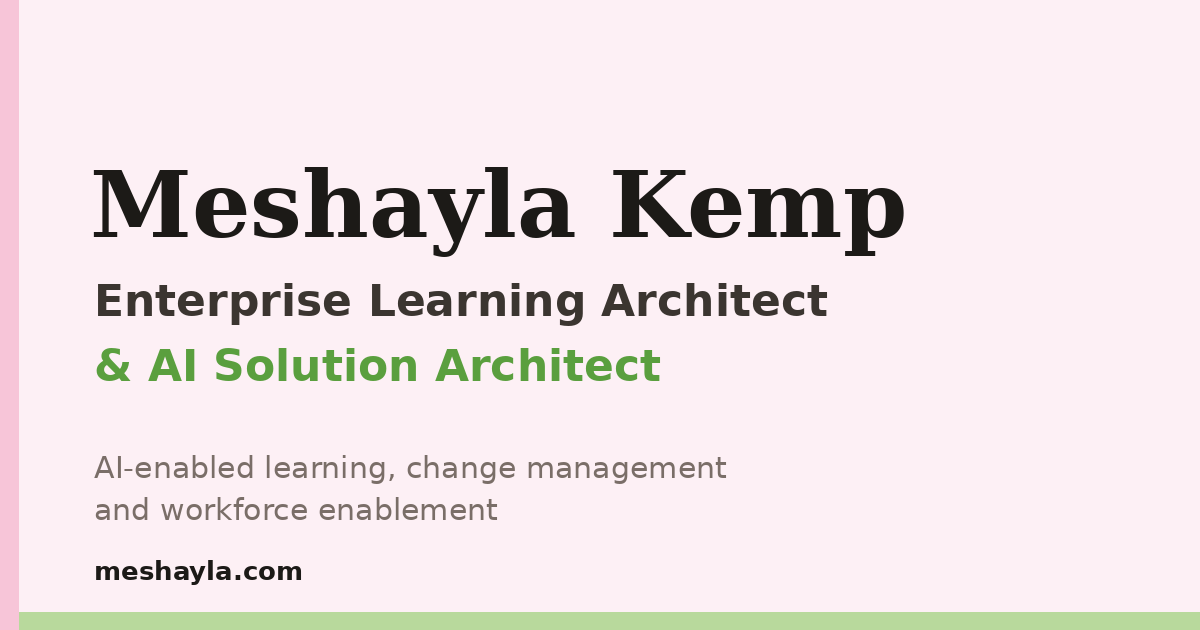
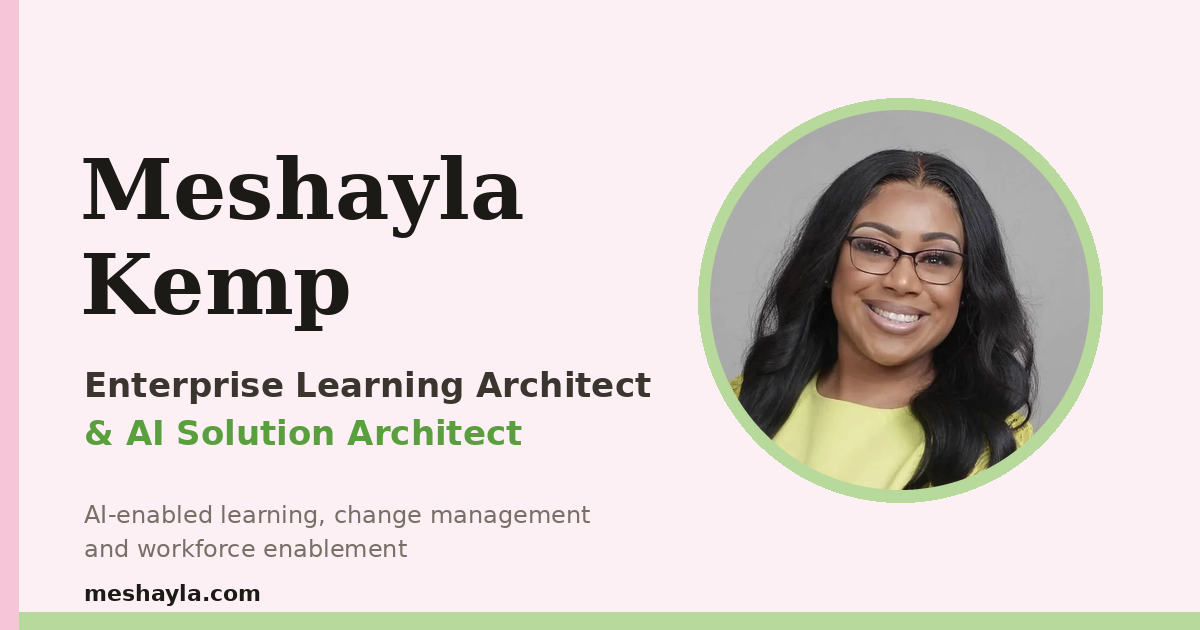
Add photo to case studies and share card; method on About page
- Square headshot crops (360 px and 96 px WebP)
- Byline with photo under each case-study title and a photo beside the
  "Need a result like this?" call to action
- Share card (og-card.png) now shows the photo
- Fix case-study spacing: base styles padded every <section>, creating
  large gaps; also fix dark-on-dark button and underlined sample links
- Carry The Lesson Plan Method tabs to the About page

Claude-Session: https://claude.ai/code/session_01N1RdFvC48pBb1oBZrdVaqt

Changed region(s): [[0.0617, 0.1508, 0.925, 0.9651]]

diff --git a/about.html b/about.html
@@ -402,6 +402,7 @@ footer{background:#0F0E0C;padding:2rem 3.5rem;display:flex;align-items:center;ju
 /* mobile: inline grid column counts must still collapse on phones */
 @media(max-width:720px){.contact-cards{grid-template-columns:1fr !important;}.skills-grid{grid-template-columns:1fr !important;}}
 </style>
+<link rel="stylesheet" href="/assets/css/enhance.css">
 </head>
 <body>
 <!-- NAV -->
@@ -669,13 +670,8 @@ footer{background:#0F0E0C;padding:2rem 3.5rem;display:flex;align-items:center;ju
   <div class="passion-inner">
     <blockquote>“The best training doesn’t feel like training. It feels like the answer to a problem you already had.”</blockquote>
     <cite>Meshayla Kemp — Enterprise Learning Architect</cite>
-    <div class="passion-steps">
-      <div class="p-step"><div class="p-step-n">01</div><div class="p-step-t">Diagnose First</div><div class="p-step-b">Performance gap &amp; needs analysis before a single slide is built.</div></div>
-      <div class="p-step"><div class="p-step-n">02</div><div class="p-step-t">Design for the Learner</div><div class="p-step-b">Audience analysis drives every design decision — not the content inventory.</div></div>
-      <div class="p-step"><div class="p-step-n">03</div><div class="p-step-t">Build for Transfer</div><div class="p-step-b">Scenario-based practice and reinforcement tools that bridge training to performance.</div></div>
-      <div class="p-step"><div class="p-step-n">04</div><div class="p-step-t">Leverage AI Strategically</div><div class="p-step-b">Generative AI as a collaborator — accelerating cycles while preserving instructional integrity.</div></div>
-      <div class="p-step"><div class="p-step-n">05</div><div class="p-step-t">Measure What Matters</div><div class="p-step-b">Kirkpatrick &amp; SAT-aligned evaluation built in from day one — not retrofitted.</div></div>
-    </div>
+    <div class="method" data-method><div class="method-intro"><div class="method-kicker">How I work</div><h2 class="method-title">The Lesson Plan Method</h2><p class="method-sub">Every engagement starts the way a good teacher starts a lesson: with the learner. Five steps, in order. Choose one to see what it looks like in practice.</p></div><div class="m-tabs" role="tablist" aria-label="The five steps of the Lesson Plan Method"><button type="button" class="m-tab" role="tab" id="mt1" aria-controls="mp1" aria-selected="true" tabindex="0"><span class="m-n">01</span><span class="m-t">Diagnose First</span></button><button type="button" class="m-tab" role="tab" id="mt2" aria-controls="mp2" aria-selected="false" tabindex="-1"><span class="m-n">02</span><span class="m-t">Design for the Learner</span></button><button type="button" class="m-tab" role="tab" id="mt3" aria-controls="mp3" aria-selected="false" tabindex="-1"><span class="m-n">03</span><span class="m-t">Build for Transfer</span></button><button type="button" class="m-tab" role="tab" id="mt4" aria-controls="mp4" aria-selected="false" tabindex="-1"><span class="m-n">04</span><span class="m-t">Leverage AI Strategically</span></button><button type="button" class="m-tab" role="tab" id="mt5" aria-controls="mp5" aria-selected="false" tabindex="-1"><span class="m-n">05</span><span class="m-t">Measure What Matters</span></button></div><div class="m-panels"><div class="m-panel" role="tabpanel" id="mp1" aria-labelledby="mt1"><div class="m-sound"><span>Sound familiar?</span>&ldquo;We need a course on this by Friday.&rdquo;</div><h3 class="m-ph">Diagnose First</h3><p class="m-what">A training request is not yet a problem to solve. Before anything is built, I find the real performance gap and ask whether training is even the right fix.</p><ul class="m-checks"><li>Performance gap named before anything is built</li><li>Stakeholder, gap and DIF analyses completed</li><li>A clear answer to: is this a training problem?</li></ul><a class="m-proof" href="/case-studies/leap-framework/">See it in action: Leap, Don&rsquo;t Escalate &rarr;</a></div><div class="m-panel" role="tabpanel" id="mp2" aria-labelledby="mt2"><div class="m-sound"><span>Sound familiar?</span>&ldquo;The content is all there, so why is nobody finishing it?&rdquo;</div><h3 class="m-ph">Design for the Learner</h3><p class="m-what">Audience analysis drives every design decision, not the content inventory. I design for the person who is nervous about the new platform, not for the slide count.</p><ul class="m-checks"><li>Audience analysis before learning objectives</li><li>Role-based paths so people choose what fits their work</li><li>Accessibility (WCAG/ADA) built in from day one</li></ul><a class="m-proof" href="/case-studies/sap-concur-lms/">See it in action: 500 Learners, 500 Roads &rarr;</a></div><div class="m-panel" role="tabpanel" id="mp3" aria-labelledby="mt3"><div class="m-sound"><span>Sound familiar?</span>&ldquo;They passed the quiz, but nothing changed on the job.&rdquo;</div><h3 class="m-ph">Build for Transfer</h3><p class="m-what">Learning only counts when it shows up in the work. I pair practice with the tools people use in the moment, so training carries past the course.</p><ul class="m-checks"><li>Scenario-based practice built around real situations</li><li>Job aids and coaching guides that travel with the learner</li><li>Post-launch reinforcement, such as office hours</li></ul><a class="m-proof" href="/case-studies/clm-pcm-rollout/">See it in action: Two Planes, One Runway &rarr;</a></div><div class="m-panel" role="tabpanel" id="mp4" aria-labelledby="mt4"><div class="m-sound"><span>Sound familiar?</span>&ldquo;Everyone is using AI, and nobody agrees on how.&rdquo;</div><h3 class="m-ph">Leverage AI Strategically</h3><p class="m-what">Generative AI is a collaborator, not a shortcut. I use it where it speeds the work and keep a human in charge of the result.</p><ul class="m-checks"><li>AI used where it saves time: crosswalks, drafting, voiceover</li><li>A human in the driver's seat for every deliverable</li><li>Instructional integrity kept intact</li></ul><a class="m-proof" href="/case-studies/economics-curriculum-crosswalk/">See it in action: Six States, One Map &rarr;</a></div><div class="m-panel" role="tabpanel" id="mp5" aria-labelledby="mt5"><div class="m-sound"><span>Sound familiar?</span>&ldquo;How do we know it actually worked?&rdquo;</div><h3 class="m-ph">Measure What Matters</h3><p class="m-what">Evaluation is designed in from the start, not retrofitted when someone asks for proof. Measures tie back to what the business or the state needs to see.</p><ul class="m-checks"><li>Kirkpatrick and SAT-aligned evaluation planned from day one</li><li>Assessments that give reviewers evidence they can verify</li><li>Findings fed back into job aids and revisions</li></ul><a class="m-proof" href="/case-studies/michigan-certification/">See it in action: Right the First Time &rarr;</a></div></div></div>
+  
   </div>
 </section>
 
@@ -693,4 +689,5 @@ footer{background:#0F0E0C;padding:2rem 3.5rem;display:flex;align-items:center;ju
 </footer>
 <script>document.querySelectorAll("a[href^='#']").forEach(a=>{const el=document.getElementById(a.getAttribute("href").slice(1));if(el){a.addEventListener("click",e=>{e.preventDefault();el.scrollIntoView({behavior:"smooth"});});}});</script>
 
+<script src="/assets/js/enhance.js" defer></script>
 </body></html>

diff --git a/case-studies/clm-pcm-rollout/index.html b/case-studies/clm-pcm-rollout/index.html
@@ -50,6 +50,7 @@
 <p class="cs-kicker">Two Planes, One Runway<small>Training built while the platforms took off</small></p>
 <h1 class="cs-title">Contract &amp; Procurement Lifecycle Management: Simultaneous 3-Phase Enterprise Platform Rollout</h1>
 <p class="cs-outcome">Two enterprise platform rollouts run at the same time, on a training process built from scratch.</p>
+<div class="cs-by"><img src="/assets/img/meshayla-headshot-sm.webp" alt="Meshayla Kemp" width="48" height="48" decoding="async"><span>Case study by <strong>Meshayla Kemp</strong>, Enterprise Learning Architect</span></div>
 <div class="ptags"><span class="chip-pill g">GEP Smart CLM</span><span class="chip-pill g">Power Apps</span><span class="chip-pill g">Power BI</span><span class="chip-pill g">ADKAR</span></div>
 </div></header>
 <section class="cs-wrap cs-stats" aria-label="Key results"><div class="cs-stat"><b>2</b><span>platform rollouts run simultaneously (CLM and PCM)</span></div><div class="cs-stat"><b>8</b><span>audience groups supported</span></div><div class="cs-stat"><b>60 min</b><span>VILT in two modules for the CLM core rollout</span></div></section>
@@ -59,7 +60,7 @@
 <section class="cs-block cs-wide"><div class="cs-compare"><div class="old"><h3>Old state</h3><ul><li>Contracts emailed back and forth, with no version control or audit trail</li><li>Redlining in external Word files caused version corruption and errors</li><li>Files scattered across eDocs, Documentum and email</li><li>Ad hoc intake by email or phone across business units</li><li>No reporting, metrics or training infrastructure</li></ul></div><div class="new"><h3>New state</h3><ul><li>All edits and redlines inside GEP Smart CLM, with every version tracked</li><li>Centralized document repository</li><li>Power Apps intake form standardized requests across business units</li><li>Power BI dashboards for real-time metrics and compliance visibility</li><li>ADDIE and SAT training infrastructure ready for future rollouts</li></ul></div></div></section>
 <section class="cs-block"><h2>Tools and methods</h2><div class="ptags"><span class="chip-pill">GEP Smart CLM + PCM</span><span class="chip-pill">ClickLearn Job Aids</span><span class="chip-pill">Power Apps</span><span class="chip-pill">Power BI</span><span class="chip-pill">Office Hours Facilitation</span><span class="chip-pill">Daily Scrum / Agile</span><span class="chip-pill">Communication Strategy</span><span class="chip-pill">ADDIE + SAT Framework</span><span class="chip-pill">ADKAR Change Model</span><span class="chip-pill">Expectation Management</span><span class="chip-pill">UAT Collaboration</span><span class="chip-pill">Legal Workflow Training</span></div></section>
 <section class="cs-block"><h2>Work samples</h2><div class="cs-btns"><a class="doc-btn pdf" href="/assets/docs/Training_Curriculum_Plan_Enhanced.pdf" target="_blank" rel="noopener">&#128196; Curriculum Plan</a><a class="doc-btn pdf" href="/assets/docs/SAT_Evaluation_Measurement_Plan_Enhanced.pdf" target="_blank" rel="noopener">&#128196; Evaluation Plan</a><a class="doc-btn pdf" href="/assets/docs/OCM_Instructional_Design_Plan_Enhanced.pdf" target="_blank" rel="noopener">&#128196; ID Plan</a><a class="doc-btn pdf" href="/assets/docs/Training_Needs_Analysis_Enhanced.pdf" target="_blank" rel="noopener">&#128196; Needs Analysis</a><a class="doc-btn pdf" href="/assets/docs/Change_Impact_Analysis_Enhanced.pdf" target="_blank" rel="noopener">&#128196; Change Impact</a></div></section>
-<section class="cs-cta"><h2>Need a result like this?</h2><p>I take on instructional design, organizational change management and AI-enabled learning engagements, and leadership roles.</p><div class="cs-btns"><a class="plink" href="/contact">Start a conversation</a><a class="doc-btn" href="mailto:meshayla@kempadvisory.com">meshayla@kempadvisory.com</a></div></section>
+<section class="cs-cta"><img class="cs-cta-photo" src="/assets/img/meshayla-headshot.webp" alt="Meshayla Kemp" width="132" height="132" loading="lazy" decoding="async"><div><h2>Need a result like this?</h2><p>I take on instructional design, organizational change management and AI-enabled learning engagements, and leadership roles.</p><div class="cs-btns"><a class="plink" href="/contact">Start a conversation</a><a class="doc-btn" href="mailto:meshayla@kempadvisory.com">meshayla@kempadvisory.com</a></div></div></section>
 <div class="cs-next" role="navigation" aria-label="More case studies"><a href="/projects">&larr; All projects</a><a href="/case-studies/michigan-certification/">Next: Statewide Certification Program: Michigan &rarr;</a></div>
 </div>
 </main>

diff --git a/case-studies/leap-framework/index.html b/case-studies/leap-framework/index.html
@@ -50,6 +50,7 @@
 <p class="cs-kicker">Leap, Don&rsquo;t Escalate<small>From &ldquo;I&rsquo;m furious&rdquo; to &ldquo;thank you&rdquo; in four steps</small></p>
 <h1 class="cs-title">The L.E.A.P. Framework: From Analysis to Impact</h1>
 <p class="cs-outcome">An original four-step de-escalation framework, built from analysis and turned into a job aid and a full Storyline course.</p>
+<div class="cs-by"><img src="/assets/img/meshayla-headshot-sm.webp" alt="Meshayla Kemp" width="48" height="48" decoding="async"><span>Case study by <strong>Meshayla Kemp</strong>, Enterprise Learning Architect</span></div>
 <div class="ptags"><span class="chip-pill g">Original framework</span><span class="chip-pill g">Articulate Storyline 360</span><span class="chip-pill g">AI-enhanced redesign</span></div>
 </div></header>
 <section class="cs-wrap cs-stats" aria-label="Key results"><div class="cs-stat"><b>4</b><span>steps in the original L.E.A.P. framework</span></div><div class="cs-stat"><b>3</b><span>phases: analyze, design and develop, implement and evaluate</span></div><div class="cs-stat"><b>1</b><span>blended ecosystem: course, job aid, coaching guide</span></div></section>
@@ -59,7 +60,7 @@
 <section class="cs-block cs-wide"><div class="cs-leap"><div><b>L</b><span>Listen</span><em>&ldquo;Can you help me understand what happened?&rdquo;</em></div><div><b>E</b><span>Empathize</span><em>&ldquo;I understand why that would be frustrating.&rdquo;</em></div><div><b>A</b><span>Apologize</span><em>&ldquo;I&rsquo;m sorry you had to go through this.&rdquo;</em></div><div><b>P</b><span>Perform</span><em>&ldquo;Here&rsquo;s what I&rsquo;m going to do to fix this.&rdquo;</em></div></div><p class="cs-note"><strong>Business impact:</strong> higher customer satisfaction, lower escalation risk, more employee confidence and more consistent service.</p></section>
 <section class="cs-block"><h2>Tools and methods</h2><div class="ptags"><span class="chip-pill">Stakeholder Analysis</span><span class="chip-pill">Gap &amp; DIF Analysis</span><span class="chip-pill">Training Needs Analysis</span><span class="chip-pill">Original Framework Design</span><span class="chip-pill">Job Aid &amp; Process Tool</span><span class="chip-pill">Articulate Storyline 360</span><span class="chip-pill">AI-Enhanced Redesign</span><span class="chip-pill">Canva &amp; Venngage</span><span class="chip-pill">Scenario-Based Learning</span><span class="chip-pill">Blended Learning Ecosystem</span></div></section>
 <section class="cs-block"><h2>Work samples</h2><div class="cs-btns"><a class="doc-btn pdf" href="/assets/docs/LEAP_Framework_Portfolio_Case_Study.pdf" target="_blank" rel="noopener">&#128196; Job Aid Portfolio Case Study (PDF)</a><a class="plink" href="https://meshaylakempcourses.s3.amazonaws.com/Handling+an+Irate+Customer-+M.Kemp+-+Storyline+output/story.html" target="_blank" rel="noopener">&#127909; Open the L.E.A.P. Storyline course</a></div></section>
-<section class="cs-cta"><h2>Need a result like this?</h2><p>I take on instructional design, organizational change management and AI-enabled learning engagements, and leadership roles.</p><div class="cs-btns"><a class="plink" href="/contact">Start a conversation</a><a class="doc-btn" href="mailto:meshayla@kempadvisory.com">meshayla@kempadvisory.com</a></div></section>
+<section class="cs-cta"><img class="cs-cta-photo" src="/assets/img/meshayla-headshot.webp" alt="Meshayla Kemp" width="132" height="132" loading="lazy" decoding="async"><div><h2>Need a result like this?</h2><p>I take on instructional design, organizational change management and AI-enabled learning engagements, and leadership roles.</p><div class="cs-btns"><a class="plink" href="/contact">Start a conversation</a><a class="doc-btn" href="mailto:meshayla@kempadvisory.com">meshayla@kempadvisory.com</a></div></div></section>
 <div class="cs-next" role="navigation" aria-label="More case studies"><a href="/projects">&larr; All projects</a><a href="/case-studies/clm-pcm-rollout/">Next: Contract &amp; Procurement Lifecycle Management: Simultaneous 3-Phase Enterprise Platform Rollout &rarr;</a></div>
 </div>
 </main>

diff --git a/case-studies/economics-curriculum-crosswalk/index.html b/case-studies/economics-curriculum-crosswalk/index.html
@@ -50,6 +50,7 @@
 <p class="cs-kicker">Six States, One Map<small>Every standard found, every gap closed</small></p>
 <h1 class="cs-title">Economics &amp; Financial Literacy: Statewide Curriculum Redesign</h1>
 <p class="cs-outcome">A six-state standards crosswalk and curriculum redesign that secured state approval at 100% compliance.</p>
+<div class="cs-by"><img src="/assets/img/meshayla-headshot-sm.webp" alt="Meshayla Kemp" width="48" height="48" decoding="async"><span>Case study by <strong>Meshayla Kemp</strong>, Enterprise Learning Architect</span></div>
 <div class="ptags"><span class="chip-pill g">AI-assisted crosswalk</span><span class="chip-pill g">Standards alignment</span><span class="chip-pill g">DOK framework</span></div>
 </div></header>
 <section class="cs-wrap cs-stats" aria-label="Key results"><div class="cs-stat"><b>6</b><span>states crosswalked: NV, CA, FL, PA, TX, WA</span></div><div class="cs-stat"><b>100%</b><span>compliance maintained, with state approval secured</span></div><div class="cs-stat"><b>9-12</b><span>grades covered by the curriculum map</span></div></section>
@@ -59,7 +60,7 @@
 
 <section class="cs-block"><h2>Tools and methods</h2><div class="ptags"><span class="chip-pill">K-12 Curriculum Design</span><span class="chip-pill">Standards Alignment</span><span class="chip-pill">AI-Assisted Crosswalk</span><span class="chip-pill">Multi-State Expansion</span><span class="chip-pill">Assessment Design</span><span class="chip-pill">DOK Framework</span><span class="chip-pill">Curriculum Mapping</span></div></section>
 <section class="cs-block"><h2>Work samples</h2><div class="cs-btns"><a class="doc-btn pdf" href="/assets/docs/EFL_MultiState_Standards_Crosswalk_Enhanced.pdf" target="_blank" rel="noopener">&#128196; Standards Crosswalk</a><a class="doc-btn pdf" href="/assets/docs/Efl-Gap-M3.pdf" target="_blank" rel="noopener">&#128196; Gap Analysis M3</a><a class="doc-btn pdf" href="/assets/docs/Efl-Gap-M4.pdf" target="_blank" rel="noopener">&#128196; Gap Analysis M4</a><a class="doc-btn pdf" href="/assets/docs/Efl-Alignment.pdf" target="_blank" rel="noopener">&#128196; Alignment Map</a><a class="doc-btn pdf" href="/assets/docs/Gap-Lesson.pdf" target="_blank" rel="noopener">&#128196; Gap Lesson</a><a class="doc-btn pdf" href="/assets/docs/Curriculum-Map.pdf" target="_blank" rel="noopener">&#128196; Curriculum Map</a></div></section>
-<section class="cs-cta"><h2>Need a result like this?</h2><p>I take on instructional design, organizational change management and AI-enabled learning engagements, and leadership roles.</p><div class="cs-btns"><a class="plink" href="/contact">Start a conversation</a><a class="doc-btn" href="mailto:meshayla@kempadvisory.com">meshayla@kempadvisory.com</a></div></section>
+<section class="cs-cta"><img class="cs-cta-photo" src="/assets/img/meshayla-headshot.webp" alt="Meshayla Kemp" width="132" height="132" loading="lazy" decoding="async"><div><h2>Need a result like this?</h2><p>I take on instructional design, organizational change management and AI-enabled learning engagements, and leadership roles.</p><div class="cs-btns"><a class="plink" href="/contact">Start a conversation</a><a class="doc-btn" href="mailto:meshayla@kempadvisory.com">meshayla@kempadvisory.com</a></div></div></section>
 <div class="cs-next" role="navigation" aria-label="More case studies"><a href="/projects">&larr; All projects</a><a href="/case-studies/sap-concur-lms/">Next: Enterprise LMS Curriculum: SAP Concur for a Fortune 100 Company &rarr;</a></div>
 </div>
 </main>

diff --git a/case-studies/workplace-stress-course/index.html b/case-studies/workplace-stress-course/index.html
@@ -50,6 +50,7 @@
 <p class="cs-kicker">Pause, Breathe, Proceed<small>Six steps for the moment the pressure hits</small></p>
 <h1 class="cs-title">Managing Workplace Stress: Strategies for Resilience &amp; Well-Being</h1>
 <p class="cs-outcome">A self-paced Rise course paired with a six-step job aid people can use in the moment.</p>
+<div class="cs-by"><img src="/assets/img/meshayla-headshot-sm.webp" alt="Meshayla Kemp" width="48" height="48" decoding="async"><span>Case study by <strong>Meshayla Kemp</strong>, Enterprise Learning Architect</span></div>
 <div class="ptags"><span class="chip-pill g">Articulate Rise 360</span><span class="chip-pill g">Infographic design</span><span class="chip-pill g">Wellness &amp; DEI</span></div>
 </div></header>
 <section class="cs-wrap cs-stats" aria-label="Key results"><div class="cs-stat"><b>2</b><span>linked assets: course and job aid</span></div><div class="cs-stat"><b>6</b><span>steps in the stress response framework</span></div><div class="cs-stat"><b>Self-paced</b><span>interactive eLearning</span></div></section>
@@ -59,7 +60,7 @@
 
 <section class="cs-block"><h2>Tools and methods</h2><div class="ptags"><span class="chip-pill">Articulate Rise 360</span><span class="chip-pill">Infographic Design</span><span class="chip-pill">Performance Support</span><span class="chip-pill">Wellness &amp; DEI</span><span class="chip-pill">Self-Paced eLearning</span><span class="chip-pill">Emotional Intelligence</span></div></section>
 <section class="cs-block"><h2>Work samples</h2><div class="cs-btns"><a class="plink" href="https://meshaylakempcourses.s3.us-east-1.amazonaws.com/content/index.html" target="_blank" rel="noopener">&#127909; Open the Rise course</a></div></section>
-<section class="cs-cta"><h2>Need a result like this?</h2><p>I take on instructional design, organizational change management and AI-enabled learning engagements, and leadership roles.</p><div class="cs-btns"><a class="plink" href="/contact">Start a conversation</a><a class="doc-btn" href="mailto:meshayla@kempadvisory.com">meshayla@kempadvisory.com</a></div></section>
+<section class="cs-cta"><img class="cs-cta-photo" src="/assets/img/meshayla-headshot.webp" alt="Meshayla Kemp" width="132" height="132" loading="lazy" decoding="async"><div><h2>Need a result like this?</h2><p>I take on instructional design, organizational change management and AI-enabled learning engagements, and leadership roles.</p><div class="cs-btns"><a class="plink" href="/contact">Start a conversation</a><a class="doc-btn" href="mailto:meshayla@kempadvisory.com">meshayla@kempadvisory.com</a></div></div></section>
 <div class="cs-next" role="navigation" aria-label="More case studies"><a href="/projects">&larr; All projects</a><a href="/case-studies/economics-curriculum-crosswalk/">Next: Economics &amp; Financial Literacy: Statewide Curriculum Redesign &rarr;</a></div>
 </div>
 </main>

diff --git a/case-studies/sap-concur-lms/index.html b/case-studies/sap-concur-lms/index.html
@@ -50,6 +50,7 @@
 <p class="cs-kicker">500 Learners, 500 Roads<small>Everyone picks the path that fits their role</small></p>
 <h1 class="cs-title">Enterprise LMS Curriculum: SAP Concur for a Fortune 100 Company</h1>
 <p class="cs-outcome">Role-based learning paths for 500+ professionals, with a 95% participant satisfaction rating.</p>
+<div class="cs-by"><img src="/assets/img/meshayla-headshot-sm.webp" alt="Meshayla Kemp" width="48" height="48" decoding="async"><span>Case study by <strong>Meshayla Kemp</strong>, Enterprise Learning Architect</span></div>
 <div class="ptags"><span class="chip-pill g">500+ learners</span><span class="chip-pill g">95% satisfaction</span><span class="chip-pill g">SCORM / xAPI</span></div>
 </div></header>
 <section class="cs-wrap cs-stats" aria-label="Key results"><div class="cs-stat"><b>500+</b><span>professionals trained across departments</span></div><div class="cs-stat"><b>95%</b><span>participant satisfaction rating</span></div><div class="cs-stat"><b>Role-based</b><span>matrixed performance pathways</span></div></section>
@@ -59,7 +60,7 @@
 
 <section class="cs-block"><h2>Tools and methods</h2><div class="ptags"><span class="chip-pill">SAP Concur</span><span class="chip-pill">LMS Architecture</span><span class="chip-pill">Articulate Storyline</span><span class="chip-pill">Vyond</span><span class="chip-pill">Performance Pathways</span><span class="chip-pill">SCORM / xAPI</span></div></section>
 
-<section class="cs-cta"><h2>Need a result like this?</h2><p>I take on instructional design, organizational change management and AI-enabled learning engagements, and leadership roles.</p><div class="cs-btns"><a class="plink" href="/contact">Start a conversation</a><a class="doc-btn" href="mailto:meshayla@kempadvisory.com">meshayla@kempadvisory.com</a></div></section>
+<section class="cs-cta"><img class="cs-cta-photo" src="/assets/img/meshayla-headshot.webp" alt="Meshayla Kemp" width="132" height="132" loading="lazy" decoding="async"><div><h2>Need a result like this?</h2><p>I take on instructional design, organizational change management and AI-enabled learning engagements, and leadership roles.</p><div class="cs-btns"><a class="plink" href="/contact">Start a conversation</a><a class="doc-btn" href="mailto:meshayla@kempadvisory.com">meshayla@kempadvisory.com</a></div></div></section>
 <div class="cs-next" role="navigation" aria-label="More case studies"><a href="/projects">&larr; All projects</a><a href="/case-studies/educators-rising-2022/">Next: National Championship: Educators Rising 2022 &rarr;</a></div>
 </div>
 </main>

diff --git a/case-studies/michigan-certification/index.html b/case-studies/michigan-certification/index.html
@@ -50,6 +50,7 @@
 <p class="cs-kicker">Right the First Time<small>Zero revisions, full marks</small></p>
 <h1 class="cs-title">Statewide Certification Program: Michigan</h1>
 <p class="cs-outcome">Approved 100% on the first submission by the state, with zero revisions required.</p>
+<div class="cs-by"><img src="/assets/img/meshayla-headshot-sm.webp" alt="Meshayla Kemp" width="48" height="48" decoding="async"><span>Case study by <strong>Meshayla Kemp</strong>, Enterprise Learning Architect</span></div>
 <div class="ptags"><span class="chip-pill g">100% first-submission approval</span><span class="chip-pill g">LMS development</span><span class="chip-pill g">Compliance</span></div>
 </div></header>
 <section class="cs-wrap cs-stats" aria-label="Key results"><div class="cs-stat"><b>100%</b><span>approved on the first submission</span></div><div class="cs-stat"><b>0</b><span>revisions required by the state</span></div><div class="cs-stat"><b>ILT + on-demand</b><span>LMS-based delivery with facilitator guides</span></div></section>
@@ -59,7 +60,7 @@
 
 <section class="cs-block"><h2>Tools and methods</h2><div class="ptags"><span class="chip-pill">LMS Development</span><span class="chip-pill">Certification Design</span><span class="chip-pill">Compliance</span><span class="chip-pill">Facilitator Guides</span><span class="chip-pill">Assessment Design</span></div></section>
 
-<section class="cs-cta"><h2>Need a result like this?</h2><p>I take on instructional design, organizational change management and AI-enabled learning engagements, and leadership roles.</p><div class="cs-btns"><a class="plink" href="/contact">Start a conversation</a><a class="doc-btn" href="mailto:meshayla@kempadvisory.com">meshayla@kempadvisory.com</a></div></section>
+<section class="cs-cta"><img class="cs-cta-photo" src="/assets/img/meshayla-headshot.webp" alt="Meshayla Kemp" width="132" height="132" loading="lazy" decoding="async"><div><h2>Need a result like this?</h2><p>I take on instructional design, organizational change management and AI-enabled learning engagements, and leadership roles.</p><div class="cs-btns"><a class="plink" href="/contact">Start a conversation</a><a class="doc-btn" href="mailto:meshayla@kempadvisory.com">meshayla@kempadvisory.com</a></div></div></section>
 <div class="cs-next" role="navigation" aria-label="More case studies"><a href="/projects">&larr; All projects</a><a href="/case-studies/workplace-stress-course/">Next: Managing Workplace Stress: Strategies for Resilience &amp; Well-Being &rarr;</a></div>
 </div>
 </main>

diff --git a/case-studies/educators-rising-2022/index.html b/case-studies/educators-rising-2022/index.html
@@ -50,6 +50,7 @@
 <p class="cs-kicker">From Grandma&rsquo;s Living Room to the National Stage<small>The classroom habit that never stopped growing</small></p>
 <h1 class="cs-title">National Championship: Educators Rising 2022</h1>
 <p class="cs-outcome">Three national championships at the 2022 Educators Rising national conference in Washington, DC.</p>
+<div class="cs-by"><img src="/assets/img/meshayla-headshot-sm.webp" alt="Meshayla Kemp" width="48" height="48" decoding="async"><span>Case study by <strong>Meshayla Kemp</strong>, Enterprise Learning Architect</span></div>
 <div class="ptags"><span class="chip-pill g">3 national championships</span><span class="chip-pill g">Coaching frameworks</span><span class="chip-pill g">K-12</span></div>
 </div></header>
 <section class="cs-wrap cs-stats" aria-label="Key results"><div class="cs-stat"><b>3</b><span>national championships won in 2022</span></div><div class="cs-stat"><b>Washington, DC</b><span>Educators Rising national conference</span></div><div class="cs-stat"><b>K-12</b><span>educational leadership program</span></div></section>
@@ -59,7 +60,7 @@
 
 <section class="cs-block"><h2>Tools and methods</h2><div class="ptags"><span class="chip-pill">Educational Leadership</span><span class="chip-pill">Curriculum Architecture</span><span class="chip-pill">Coaching Frameworks</span><span class="chip-pill">K-12</span></div></section>
 
-<section class="cs-cta"><h2>Need a result like this?</h2><p>I take on instructional design, organizational change management and AI-enabled learning engagements, and leadership roles.</p><div class="cs-btns"><a class="plink" href="/contact">Start a conversation</a><a class="doc-btn" href="mailto:meshayla@kempadvisory.com">meshayla@kempadvisory.com</a></div></section>
+<section class="cs-cta"><img class="cs-cta-photo" src="/assets/img/meshayla-headshot.webp" alt="Meshayla Kemp" width="132" height="132" loading="lazy" decoding="async"><div><h2>Need a result like this?</h2><p>I take on instructional design, organizational change management and AI-enabled learning engagements, and leadership roles.</p><div class="cs-btns"><a class="plink" href="/contact">Start a conversation</a><a class="doc-btn" href="mailto:meshayla@kempadvisory.com">meshayla@kempadvisory.com</a></div></div></section>
 <div class="cs-next" role="navigation" aria-label="More case studies"><a href="/projects">&larr; All projects</a><a href="/case-studies/leap-framework/">Next: The L.E.A.P. Framework: From Analysis to Impact &rarr;</a></div>
 </div>
 </main>

diff --git a/assets/css/case.css b/assets/css/case.css
@@ -45,3 +45,16 @@
 
 .cs-kicker{font-family:'Playfair Display',serif;font-style:italic;font-weight:600;font-size:clamp(18px,2.2vw,24px);color:#2F5A17;margin-bottom:.4rem;}
 .cs-kicker small{display:block;font-family:'Nunito',sans-serif;font-style:normal;font-weight:600;font-size:13px;color:var(--muted);margin-top:3px;}
+
+.cs-by{display:flex;align-items:center;gap:.7rem;margin:0 0 1rem;font-size:13.5px;color:var(--charcoal);}
+.cs-by img{width:48px;height:48px;border-radius:50%;object-fit:cover;border:2px solid var(--green2);}
+.cs-cta{display:flex;align-items:center;gap:1.6rem;}
+.cs-cta-photo{width:132px;height:132px;border-radius:50%;object-fit:cover;border:3px solid var(--green2);flex:none;}
+@media(max-width:720px){.cs-cta{flex-direction:column;align-items:flex-start;}.cs-cta-photo{width:104px;height:104px;}}
+
+/* Base styles pad every <section>; case-study blocks are laid out by .cs-wrap instead */
+.cs-block{padding:0;}
+.cs-btns a{text-decoration:none;}
+.cs-cta .plink{background:var(--green2);color:var(--ink);}
+.cs-cta .plink:hover{background:var(--green);}
+.cs-cta .doc-btn{color:var(--ink);}
